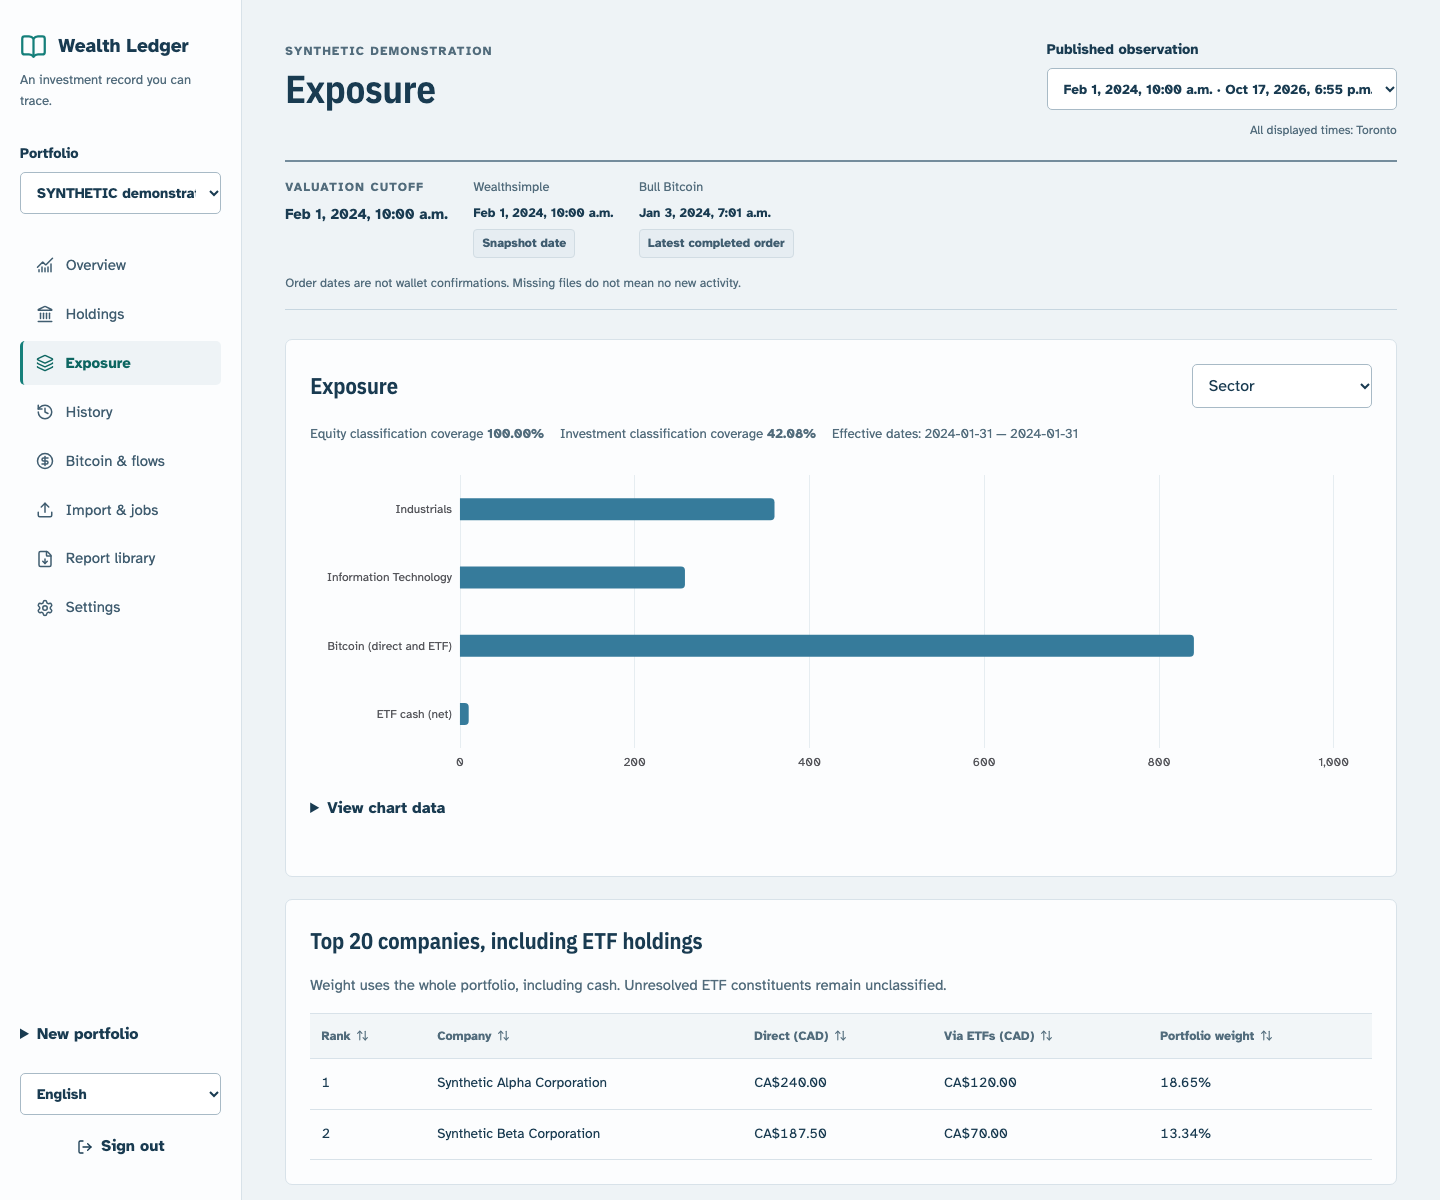
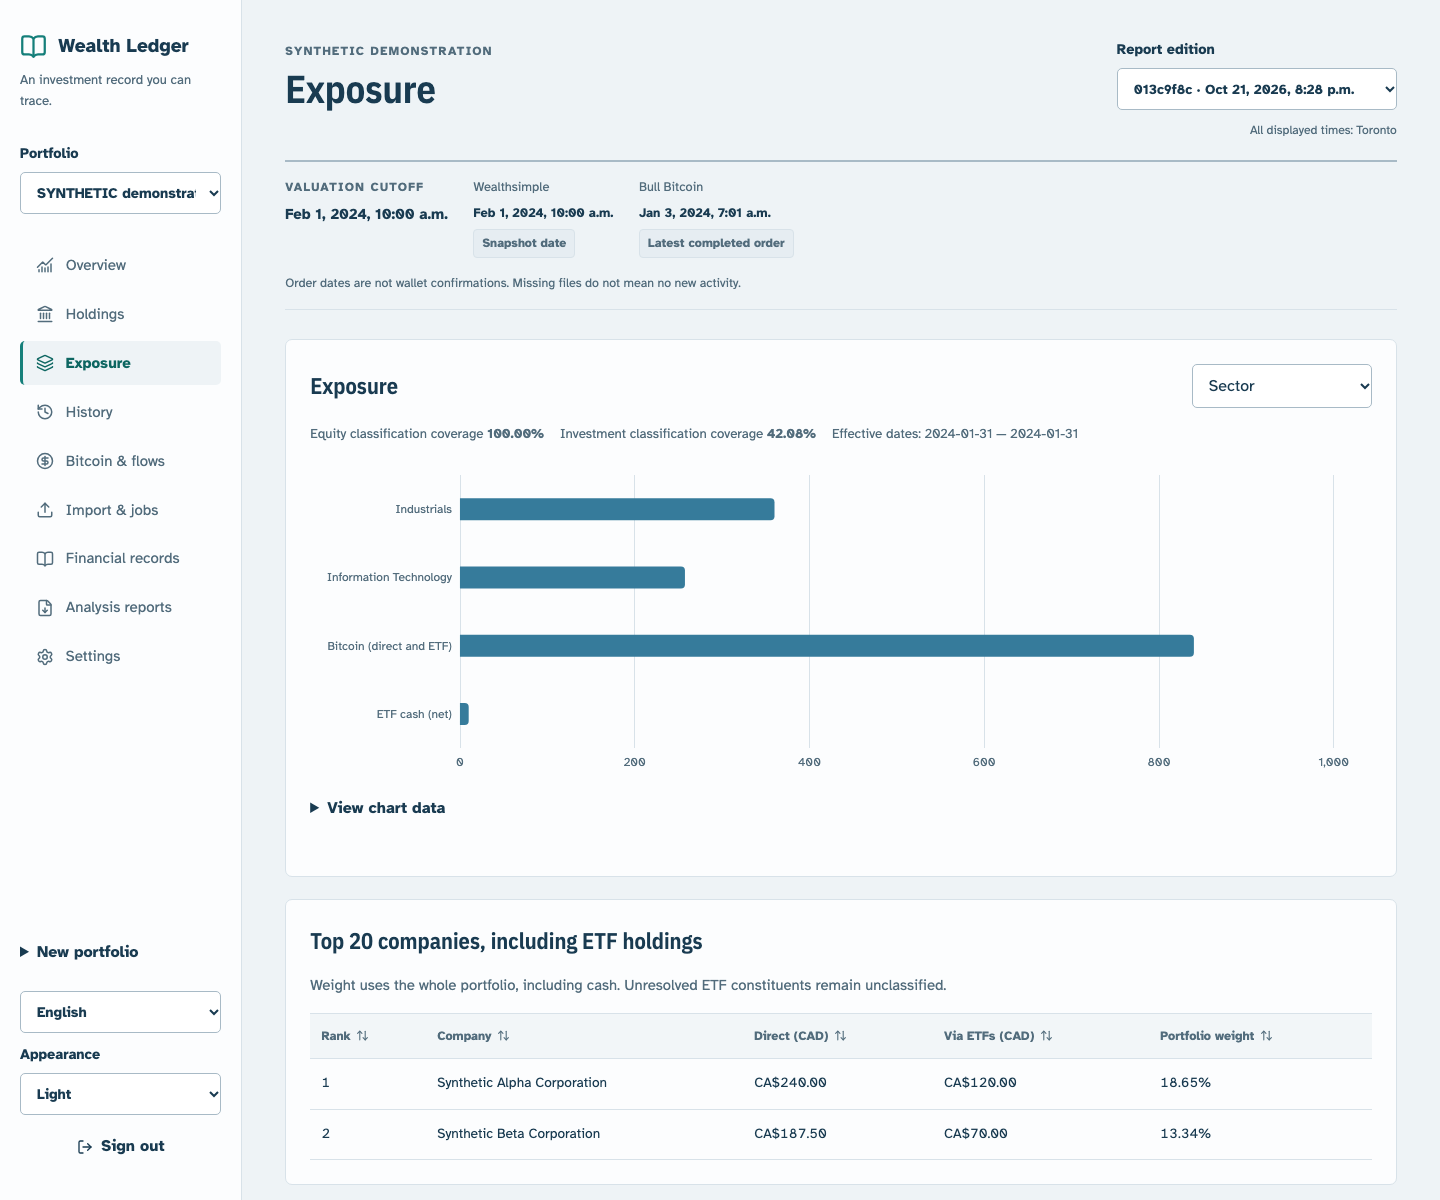
Document every Web page with synthetic screenshots

diff --git a/tests/test_publication.py b/tests/test_publication.py
@@ -36,7 +36,12 @@ class PublicationPolicyTests(unittest.TestCase):
                      'assets/readme/README.md', 'frontend/package-lock.json', 'frontend/src/App.tsx',
                      'frontend/src/locales/zh-TW.json', 'docs/web-frontend.md',
                      'frontend/scripts/capture-readme.mjs', 'assets/readme/web-overview.png',
-                     'assets/readme/web-exposure.png'):
+                     'assets/readme/web-exposure.png', 'assets/readme/web-login.png',
+                     'assets/readme/web-holdings.png', 'assets/readme/web-history.png',
+                     'assets/readme/web-bitcoin.png', 'assets/readme/web-imports.png',
+                     'assets/readme/web-records.png', 'assets/readme/web-reports.png',
+                     'assets/readme/web-settings.png', 'assets/readme/web-overview-dark.png',
+                     'assets/readme/web-report-reader.png'):
             self.assertTrue(guard.path_allowed(path), path)
 
     def test_private_and_unknown_paths(self):

diff --git a/scripts/check_publication.py b/scripts/check_publication.py
@@ -36,7 +36,12 @@ PUBLIC_FUND_FIXTURES = {
 }
 PUBLIC_README_PNGS = {
     'assets/readme/report-preview.png', 'assets/readme/web-overview.png',
-    'assets/readme/web-exposure.png',
+    'assets/readme/web-exposure.png', 'assets/readme/web-login.png',
+    'assets/readme/web-holdings.png', 'assets/readme/web-history.png',
+    'assets/readme/web-bitcoin.png', 'assets/readme/web-imports.png',
+    'assets/readme/web-records.png', 'assets/readme/web-reports.png',
+    'assets/readme/web-settings.png', 'assets/readme/web-overview-dark.png',
+    'assets/readme/web-report-reader.png',
 }
 PRIVATE_INSTRUCTION_NAMES = {'agents.override.md'}
 IGNORED_ROOTS = {

diff --git a/README.md b/README.md
@@ -137,22 +137,145 @@ Use **Financial records** for cash-flow coverage, contributions and BTC openings
 
 ## Screenshots
 
+The following are actual application screens from a **disposable synthetic portfolio**,
+using only the [public example data](examples/README.md). Accounts, amounts, holdings,
+prices and dates are invented. These are saved demonstration reports, not live quotes
+or a maintainer's financial data. Screenshots show the current UI; a broader design
+review remains separate planned work.
+
+### Portfolio overview
+
 <p align="center">
-  <img src="assets/readme/web-overview.png" width="1200" alt="Synthetic Web dashboard showing a frozen portfolio value, independent source dates, recorded history, and account allocation">
+  <img src="assets/readme/web-overview.png" width="1200" alt="Synthetic portfolio overview with a saved CAD value, source dates, account allocation and recorded observation chart">
 </p>
 
-<p align="center"><em>Invented accounts, holdings, prices, and dates from the disposable browser fixture. This is a saved demonstration observation, not live market data or a real portfolio.</em></p>
+**Example:** inspect a saved CA$1,930.00 portfolio across four accounts, switch the
+display currency between CAD/USD/TWD, and compare the valuation cutoff with each
+source's date. Opening the overview does not refresh prices or create an observation.
+
+Expand a page below to see its screen and an example task:
 
 <details>
-<summary><strong>Company rankings and classified exposure</strong></summary>
+<summary><strong>Sign in — access your own instance</strong></summary>
 
-<p align="center">
-  <img src="assets/readme/web-exposure.png" width="1200" alt="Synthetic sector allocation, classification coverage, ranked ETF and direct company exposure, and frozen source dates">
-</p>
+<img src="assets/readme/web-login.png" width="1200" alt="Wealth Ledger sign-in page with blank username and password inputs">
 
-The top-20 table combines direct and ETF holdings. Whole-portfolio weights include cash; unresolved constituents remain visible in coverage and report attachments. [Screenshot provenance and reproduction](assets/readme/README.md).
+Sign in with the account created on your host. Each instance has one owner or
+household and can contain independent portfolios. The screenshot contains no entered
+credentials; the demonstration account is used only in the disposable fixture.
 
 </details>
+
+<details>
+<summary><strong>Holdings — compare accounts and native currencies</strong></summary>
+
+<img src="assets/readme/web-holdings.png" width="1200" alt="Synthetic holdings table with account and CAD/USD filters, quantities, costs and saved valuations">
+
+**Example:** filter the invented TFSA, RRSP or non-registered holdings, then compare
+CAD and USD securities. The CAD-valued BTC proxy is kept outside this native-currency
+securities table and appears on the Bitcoin page.
+
+</details>
+
+<details>
+<summary><strong>Exposure — inspect company concentration and ETF holdings</strong></summary>
+
+<img src="assets/readme/web-exposure.png" width="1200" alt="Synthetic sector allocation, classification coverage and ranked company exposure through direct stocks and ETFs">
+
+**Example:** inspect sector/country/region allocation and the top-20 company ranking,
+including direct stocks and ETF constituents. Whole-portfolio weights include cash;
+effective dates, unresolved constituents and classification coverage remain visible.
+
+</details>
+
+<details>
+<summary><strong>History — track actual recorded observations</strong></summary>
+
+<img src="assets/readme/web-history.png" width="1200" alt="Synthetic history page showing one recorded observation and its exact table values">
+
+This example has **one observation**, so the chart shows one point. More dated inputs
+build the timeline; the app does not fabricate missing month-end balances. Multiple
+report editions at one cutoff do not become additional financial observations.
+Value changes alone are not contribution-adjusted investment returns.
+
+</details>
+
+<details>
+<summary><strong>Bitcoin &amp; flows — review purchases, quantities and funding</strong></summary>
+
+<img src="assets/readme/web-bitcoin.png" width="1200" alt="Synthetic Bitcoin page with BTC equivalent quantities, known costs and monthly purchase-rate table">
+
+**Example:** review BTC/LBTC quantities, saved valuations and monthly quantity-weighted
+CAD/BTC purchase rates. Purchase spending and funding remain distinct from proven
+external contributions; unknown wallet fees, acquisition costs and cash-flow coverage
+are disclosed rather than filled with zero.
+
+</details>
+
+<details>
+<summary><strong>Import &amp; jobs — preview supported CSVs before confirmation</strong></summary>
+
+<img src="assets/readme/web-imports.png" width="1200" alt="Synthetic import form with the public Wealthsimple holdings and Bull Bitcoin order examples selected">
+
+**Example:** select `examples/data/wealthsimple-holdings.csv` and
+`examples/data/bull-orders.csv`, or provide either independently. Review detected
+sources, account mappings and checks before confirming. The screenshot shows selected
+sample files **before upload/preview**; no import is confirmed by the capture script.
+See [the browser workflow](docs/web-frontend.md) for saved contexts, reference inputs
+and job recovery.
+
+</details>
+
+<details>
+<summary><strong>Financial records — enter contributions and BTC declarations</strong></summary>
+
+<img src="assets/readme/web-records.png" width="1200" alt="Financial records form filled with an unsaved invented BTC total, observation timestamp and synthetic evidence source">
+
+**Example:** enter an invented `0.00950000 BTC` total with the explicit timestamp
+`2024-02-02T12:00:00-05:00` and a source reference. This is an **unsaved form example**,
+not a wallet confirmation. The same page supports contributions, coverage, openings,
+fees/events and append-only corrections through preview and confirmation. Saving a
+record and generating a report are separate actions.
+
+</details>
+
+<details>
+<summary><strong>Analysis reports — read the full report and download the same edition</strong></summary>
+
+<img src="assets/readme/web-reports.png" width="1200" alt="Analysis reports page with original PDF, ODS and Markdown downloads, report context and grouped history">
+
+<img src="assets/readme/web-report-reader.png" width="1200" alt="Saved report reader with a section contents rail and the original analysis tables from the synthetic edition">
+
+**Example:** read saved sections and charts, filter/sort report tables, and download
+PDF, ODS, Markdown, a complete report ZIP or frozen CSV/JSON datasets. History groups
+editions by date and scope. The reader preserves the original report's language and
+assumptions; viewing or exporting does not regenerate the report.
+
+</details>
+
+<details>
+<summary><strong>Settings — choose future report language and cost policy</strong></summary>
+
+<img src="assets/readme/web-settings.png" width="1200" alt="Synthetic portfolio settings showing future report language and actual known BTC cost policy, with blank password-change fields">
+
+**Example:** choose the language for future reports and an explicit BTC cost policy.
+Changing settings does not rewrite old report editions. Interface language and
+system/light/dark appearance are separate controls. Password fields are blank in
+this screenshot.
+
+</details>
+
+<details>
+<summary><strong>Dark mode — use system, light or dark appearance</strong></summary>
+
+<img src="assets/readme/web-overview-dark.png" width="1200" alt="The same invented portfolio overview in dark mode with theme-aware chart axes and tables">
+
+The browser stores only the nonfinancial appearance preference. Original downloadable
+reports and saved PNG charts keep their publication styling.
+
+</details>
+
+[Reproduce and review these synthetic screenshots](assets/readme/README.md).
 
 ## Architecture
 

diff --git a/assets/readme/README.md b/assets/readme/README.md
@@ -1,16 +1,33 @@
 # README artwork and screenshots
 
-| Asset | Provenance |
+| Asset | Provenance / captured task |
 |---|---|
 | `wealth-ledger-mark.svg` | Original project artwork under the project MIT license. |
 | `report-preview.png` | The invented offline report from `examples/demo.py`. |
-| `web-overview.png` | The disposable synthetic browser fixture, overview page. |
-| `web-exposure.png` | The same fixture, sector classification and company rankings. |
+| `web-login.png` | Blank sign-in form; no entered credentials. |
+| `web-overview.png` | Saved synthetic portfolio totals, source dates and account allocation. |
+| `web-overview-dark.png` | The same synthetic overview with dark appearance selected. |
+| `web-holdings.png` | Native CAD/USD securities and account filters. |
+| `web-exposure.png` | Invented sector classifications and direct/ETF company rankings. |
+| `web-history.png` | The fixture's single actual observation; no fabricated monthly points. |
+| `web-bitcoin.png` | Invented BTC/LBTC quantities, costs and monthly purchase rates. |
+| `web-imports.png` | Both public example CSVs selected locally, before upload/preview. |
+| `web-records.png` | Unsaved invented BTC quantity, dated observation and synthetic evidence source. |
+| `web-reports.png` | Saved report context, original downloads and grouped edition history. |
+| `web-report-reader.png` | Scrolled saved report contents and original analysis tables. |
+| `web-settings.png` | Default example settings; password-change fields remain blank. |
 
-These images contain no real user's accounts, balances, wallet addresses, prices,
-or broker exports. Their dates and values are invented demonstration inputs, not
-current market data. Only the three named PNG paths are allowlisted for publication;
-arbitrary screenshots remain blocked. Inspect newly generated images before staging.
+All Web screenshots come from `scripts/web_browser_fixture.py`, using public
+`examples/demo.py` / `examples/data` inputs in a newly created temporary instance.
+They contain no real user's accounts, balances, wallet addresses, prices, or broker
+exports. Dates, values and company names are demonstration data, not current quotes.
+The filled wallet form is not submitted and the selected CSVs are not uploaded or
+confirmed by the screenshot script. The application UI is captured as rendered;
+financial text, tables, warnings and charts are not replaced with a visual mockup.
+
+Only these thirteen named PNG paths are allowlisted for publication; arbitrary
+screenshots remain blocked. Inspect every newly generated image before staging.
+The local capture receipt is evidence, not a substitute for visual privacy review.
 
 ## Exported report preview
 
@@ -26,8 +43,8 @@ financial state. Regenerate when the example/report design changes.
 
 ## Browser screenshots
 
-Install Python Web test dependencies, Node 24 LTS, and the locked frontend packages.
-From the repository root, using a Python 3.12+ environment:
+Install Python Web test dependencies, Node 24 LTS (or 22.12+), and the locked frontend
+packages. From the repository root, using a Python 3.12+ environment:
 
 ```bash
 python -m pip install -r requirements-web-test.lock
@@ -41,22 +58,33 @@ node frontend/scripts/capture-readme.mjs
 
 Activate the Python environment first, or set `WEALTH_LEDGER_TEST_PYTHON` to its
 executable. An already installed Chrome binary can be selected with
-`WEALTH_LEDGER_BROWSER_CHANNEL=chrome`; Playwright uses a disposable profile, not a
-personal browser session. `PLAYWRIGHT_BROWSERS_PATH` can select a local browser cache.
+`WEALTH_LEDGER_BROWSER_CHANNEL=chrome`; Playwright uses a new disposable profile,
+never a personal browser session. `PLAYWRIGHT_BROWSERS_PATH` can select a browser cache.
 
-The capture script starts `scripts/web_browser_fixture.py`, which creates a new
-instance in a system temporary directory and seeds only the public synthetic demo.
-It refuses an occupied fixture port, takes no URL/portfolio/source-file arguments,
-checks the synthetic portfolio/value, and captures pages only after login. Fixture
-services are terminated afterward. Browser/fixture provenance is saved under ignored
-`work/readme-capture/provenance.json`; publication images contain only the page,
-without desktop, address bar, credentials, or browser-profile content.
+The capture script:
 
-The report cutoff remains the demonstration date; the fixture's publication timestamp
-reflects the capture run. Pixel output can vary with browser/platform/fonts. Capture
-preserves reduced-motion settings and bundled fonts; check both images visually and
-rerun the publication guard before staging. No existing personal instance, ledger,
-latest pointer, source export, or report history is used.
+1. Refuses an occupied fixture port and takes no URL/portfolio/source-file arguments.
+2. Starts a child fixture that creates a new instance in a system temporary directory.
+3. Signs into the known synthetic portfolio and captures the blank sign-in screen after normal logout.
+4. Checks the expected synthetic portfolio before each authenticated capture, fixes
+   light/dark appearance and waits for the relevant data, charts and bundled fonts.
+5. Selects only fixed public example CSV paths and fills only an unsaved invented
+   wallet declaration. It performs no import or declaration confirmation.
+6. Rejects entered password fields, unexpected origins, browser errors and external
+   browser requests. Images show the page, not desktop/address-bar/profile contents.
+7. Closes the browser and terminates the fixture afterward; its temporary data is removed.
+
+The twelve Web images use a 1440x1200 viewport with reduced motion. The report-reader
+image is a scrolled viewport; other images start at the page heading. Screenshots
+show representative visible content, not every section of a long page. All existing
+application locales and financial semantics remain unchanged.
+
+Browser/fixture/file provenance is saved under ignored
+`work/readme-capture/provenance.json`. The report cutoff stays the demonstration date;
+the fixture's publication timestamp reflects the run. Pixel output can vary with
+browser/platform/fonts. Verify all README image references, review each full-size PNG,
+and rerun publication guards before staging. No existing personal instance, ledger,
+latest pointer, source export, report history or Docker volume is used.
 
 ## Badges
 
